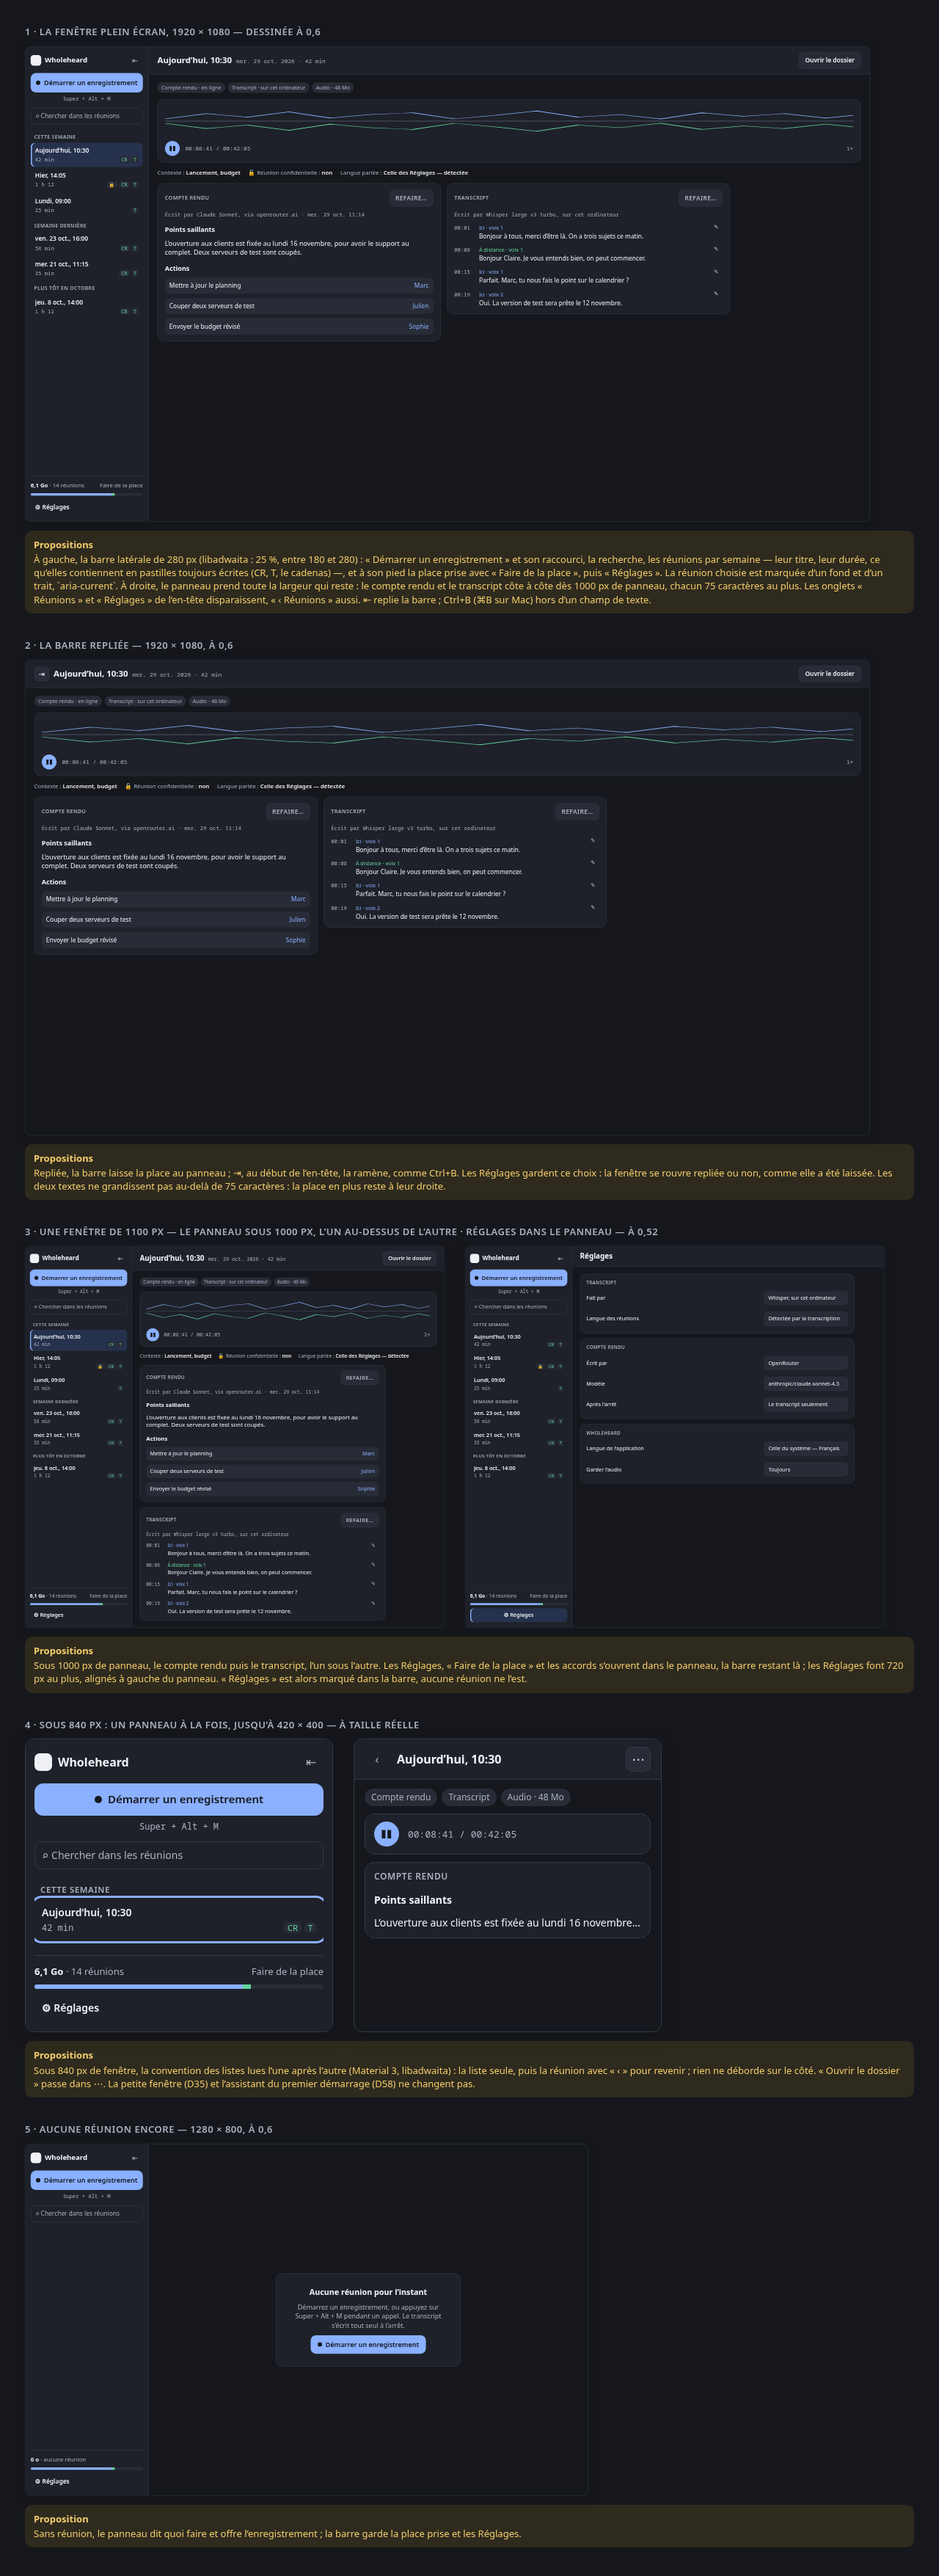
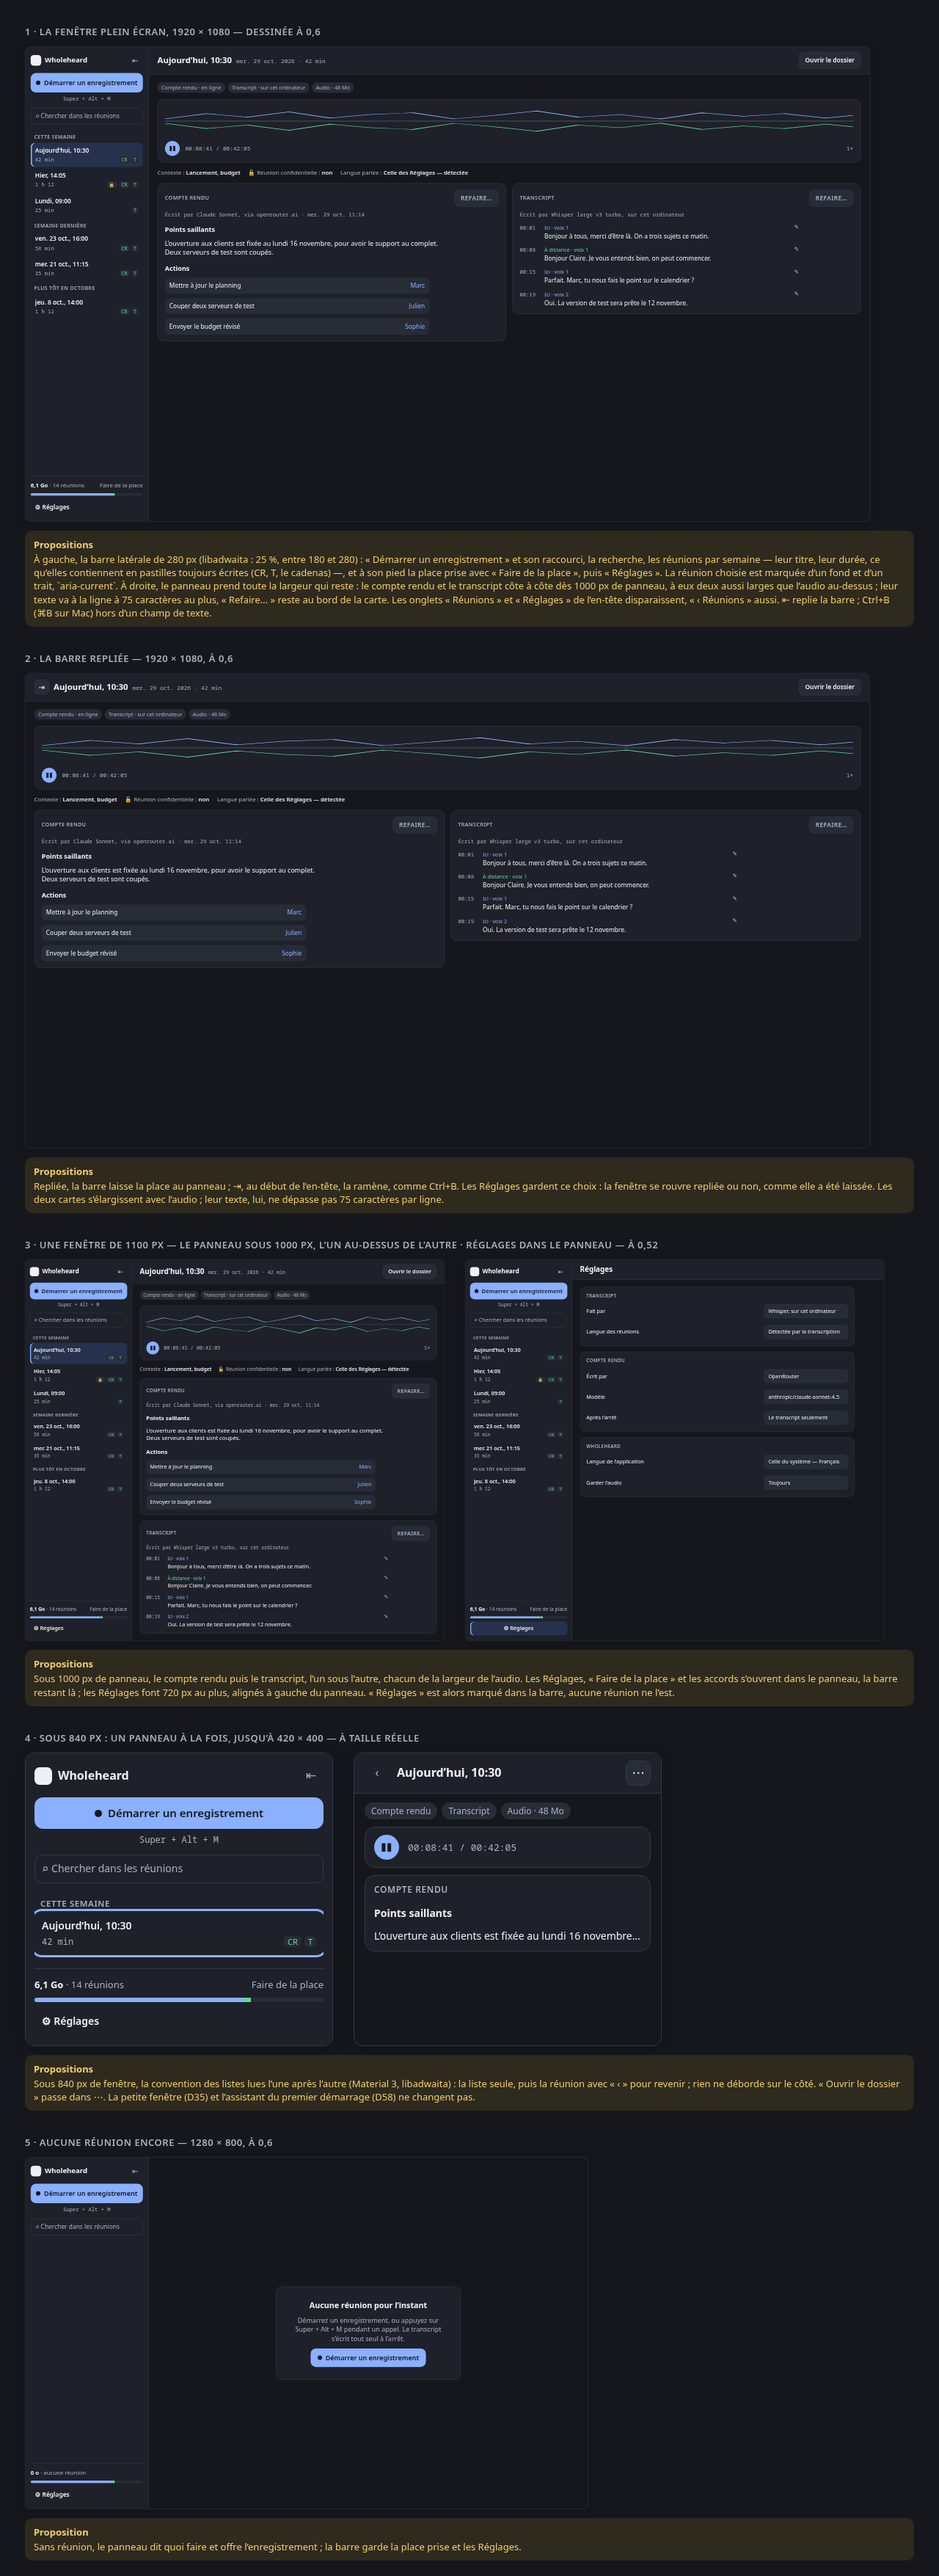
D61's board: the minutes and the transcript together as wide as the audio, their text 75 characters — the decider's remark
Agent-Session: wh-0427-main

diff --git a/docs/project/drawings/d61-the-window-in-two-panes/board.html b/docs/project/drawings/d61-the-window-in-two-panes/board.html
@@ -74,8 +74,10 @@
   .settings-row { display: flex; gap: 18px; flex-wrap: wrap; font-size: 13px; color: var(--soft); }
   .settings-row span b { color: var(--ink); font-weight: 600; }
   .texts { display: grid; gap: 14px; align-items: start; }
-  .texts.side-by-side { grid-template-columns: repeat(2, minmax(0, 75ch)); }
-  .texts.stacked { grid-template-columns: minmax(0, 75ch); }
+  .texts.side-by-side { grid-template-columns: repeat(2, minmax(0, 1fr)); }
+  .texts.stacked { grid-template-columns: minmax(0, 1fr); }
+  /* The cards as wide as the audio's, together; their text kept readable, 75 characters at most. */
+  .texts .card > :not(.label) { max-width: 75ch; }
   .label { font-size: 12px; font-weight: 600; letter-spacing: .05em; text-transform: uppercase; color: var(--soft); display: flex; align-items: center; justify-content: space-between; }
   .by { font: 12px ui-monospace, monospace; color: var(--soft); }
   h4 { margin: 4px 0 0; font-size: 15px; }
@@ -176,7 +178,7 @@
   <div class="frame" style="--w:1920px;--h:1080px;--s:.6"><div class="win" data-side>
     <div class="pane" data-head="meeting-head"><div class="body" data-top><div class="texts side-by-side" data-texts></div></div></div>
   </div></div>
-  <div class="note"><b>Propositions</b>À gauche, la barre latérale de 280 px (libadwaita : 25 %, entre 180 et 280) : « Démarrer un enregistrement » et son raccourci, la recherche, les réunions par semaine — leur titre, leur durée, ce qu’elles contiennent en pastilles toujours écrites (CR, T, le cadenas) —, et à son pied la place prise avec « Faire de la place », puis « Réglages ». La réunion choisie est marquée d’un fond et d’un trait, `aria-current`. À droite, le panneau prend toute la largeur qui reste : le compte rendu et le transcript côte à côte dès 1000 px de panneau, chacun 75 caractères au plus. Les onglets « Réunions » et « Réglages » de l’en-tête disparaissent, « ‹ Réunions » aussi. ⇤ replie la barre ; Ctrl+B (⌘B sur Mac) hors d’un champ de texte.</div>
+  <div class="note"><b>Propositions</b>À gauche, la barre latérale de 280 px (libadwaita : 25 %, entre 180 et 280) : « Démarrer un enregistrement » et son raccourci, la recherche, les réunions par semaine — leur titre, leur durée, ce qu’elles contiennent en pastilles toujours écrites (CR, T, le cadenas) —, et à son pied la place prise avec « Faire de la place », puis « Réglages ». La réunion choisie est marquée d’un fond et d’un trait, `aria-current`. À droite, le panneau prend toute la largeur qui reste : le compte rendu et le transcript côte à côte dès 1000 px de panneau, à eux deux aussi larges que l’audio au-dessus ; leur texte va à la ligne à 75 caractères au plus, « Refaire… » reste au bord de la carte. Les onglets « Réunions » et « Réglages » de l’en-tête disparaissent, « ‹ Réunions » aussi. ⇤ replie la barre ; Ctrl+B (⌘B sur Mac) hors d’un champ de texte.</div>
 </section>
 
 <section>
@@ -184,7 +186,7 @@
   <div class="frame" style="--w:1920px;--h:1080px;--s:.6"><div class="win">
     <div class="pane"><div class="head"><span class="icon boxed" title="Afficher la barre latérale — Ctrl+B">⇥</span><span class="title"><b>Aujourd’hui, 10:30</b><span>mer. 29 oct. 2026 · 42 min</span></span><span class="btn">Ouvrir le dossier</span></div><div class="body" data-top><div class="texts side-by-side" data-texts></div></div></div>
   </div></div>
-  <div class="note"><b>Propositions</b>Repliée, la barre laisse la place au panneau ; ⇥, au début de l’en-tête, la ramène, comme Ctrl+B. Les Réglages gardent ce choix : la fenêtre se rouvre repliée ou non, comme elle a été laissée. Les deux textes ne grandissent pas au-delà de 75 caractères : la place en plus reste à leur droite.</div>
+  <div class="note"><b>Propositions</b>Repliée, la barre laisse la place au panneau ; ⇥, au début de l’en-tête, la ramène, comme Ctrl+B. Les Réglages gardent ce choix : la fenêtre se rouvre repliée ou non, comme elle a été laissée. Les deux cartes s’élargissent avec l’audio ; leur texte, lui, ne dépasse pas 75 caractères par ligne.</div>
 </section>
 
 <section>
@@ -209,7 +211,7 @@
         </div></div></div>
     </div></div>
   </div>
-  <div class="note"><b>Propositions</b>Sous 1000 px de panneau, le compte rendu puis le transcript, l’un sous l’autre. Les Réglages, « Faire de la place » et les accords s’ouvrent dans le panneau, la barre restant là ; les Réglages font 720 px au plus, alignés à gauche du panneau. « Réglages » est alors marqué dans la barre, aucune réunion ne l’est.</div>
+  <div class="note"><b>Propositions</b>Sous 1000 px de panneau, le compte rendu puis le transcript, l’un sous l’autre, chacun de la largeur de l’audio. Les Réglages, « Faire de la place » et les accords s’ouvrent dans le panneau, la barre restant là ; les Réglages font 720 px au plus, alignés à gauche du panneau. « Réglages » est alors marqué dans la barre, aucune réunion ne l’est.</div>
 </section>
 
 <section>
